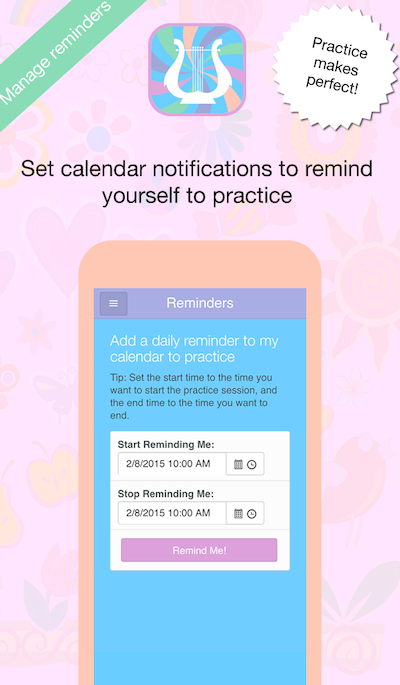
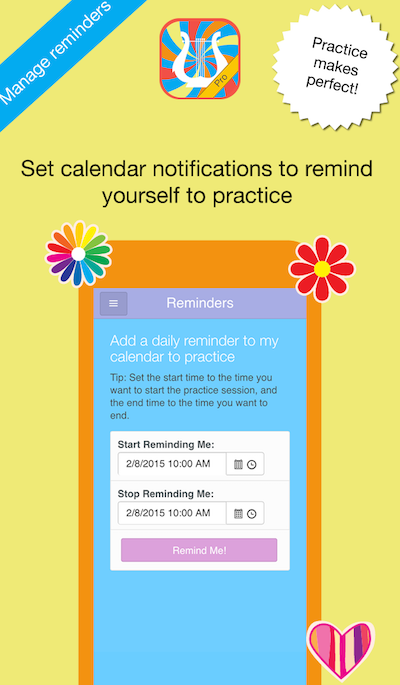
redesign

diff --git a/index.html b/index.html
@@ -79,6 +79,7 @@
                         <span class="name">Welcome!</span>
                         <hr class="music-light">
                         <span class="skills">Practice Buddy is the musical student's preferred app and the music teacher's best toolkit</span>
+                        
                     </div>
                 </div>
             </div>
@@ -88,11 +89,11 @@
     
     <div data-role="view" id="home" data-layout="default" class="welcome-scrn form-view" data-model="app.Home">
 
-    <section id="about" data-layout="default" class="green">
+    <section id="about" data-layout="default" class="orange">
         <div class="container">
             <div class="row">
                 <div class="col-lg-12 text-center">
-                    <h2>About Practice Buddy</h2>
+                    <h2>Practice Buddy has logged <span data-bind="text: getNumPractices"></span> practices so far!</h2>
                 </div>
             </div>
             <div class="row">
@@ -135,7 +136,7 @@
             </div>
     </section>
 
-    <section class="pink" id="students">
+    <section class="red" id="students">
         <div class="container">
             <div class="row">
                 <div class="col-lg-12 text-center">
@@ -167,7 +168,7 @@
             </div>
     </section>
 
-    <section class="salmon" id="teachers">
+    <section class="orange" id="teachers">
         <div class="container">
             <div class="row">
                 <div class="col-lg-12 text-center">
@@ -228,7 +229,7 @@
             
     </section>
 
-    <section class="pink" id="contact">
+    <section class="yellow" id="contact">
         <div class="container">
             <div class="row">
                 <div class="col-lg-6 col-lg-offset-3">
@@ -261,7 +262,7 @@
             </div>
     </section>
 
-    <section class="green" id="music">
+    <section class="lite-blue" id="music">
         <div class="container">
             <div class="row">
                 <div class="col-lg-12 text-center">
@@ -277,7 +278,7 @@
             
             <div class="row">
                
-               <div class="col-lg-4 blue" style="border-radius:4px">
+               <div class="col-lg-4 dark-blue" style="border-radius:4px">
 
                     <h4>Stringed Instruments</h4>
 
@@ -327,7 +328,7 @@
                 
                 <div class="col-lg-4" style="border-radius:4px">
 
-                <div class="salmon" style="border-radius:4px;padding:5px">
+                <div class="orange" style="border-radius:4px;padding:5px">
 
                     <h4>Piano</h4>
 
@@ -401,7 +402,7 @@
 
 
                   
-               <div class="col-lg-4 pink" style="border-radius:4px">
+               <div class="col-lg-4 red" style="border-radius:4px">
 
                     <h4>Banjos and Guitars</h4>
 
@@ -524,7 +525,6 @@
     <script src="scripts/js/cbpAnimatedHeader.js"></script>
 
     <script src="scripts/js/freelancer.js"></script>
-    <script src="scripts/js/wufoo.js"></script>
 
 </body>
 

diff --git a/styles/freelancer.css b/styles/freelancer.css
@@ -4,6 +4,56 @@
  * For details, see http://www.apache.org/licenses/LICENSE-2.0.
  */
 
+/*original pastel*/
+/*pink = E9D8DE
+orchid = DCA1DB
+cream = F6E4B2
+blue =  6FCEFF
+purple = A8ADE4*/
+
+/*new primary*/
+/*red: F04848;
+orange: F09018;
+yellow: F0F078;
+blue: 18A8F0;
+dark blue: 181848;
+*/
+
+/*.pink{
+    background:#DCA1DB;
+}
+.salmon{
+    background:#FFC8BA;
+}
+.green{
+    background:#93DFB8;
+}
+.blue{
+    background:#6FCEFF;
+}
+.purple{
+    background:#A8ADE4;
+}*/
+.red{
+    background:#F04848;
+}
+.orange{
+    background:#F09018;
+}
+.yellow{
+    background:#F0F078;
+}
+.lite-blue{
+    background:#18A8F0;
+}
+.dark-blue{
+    background:#181848;
+}
+.purple{
+    background:#8814CA;
+}
+
+
 body {
     overflow-x: hidden;
     color:#FFF;
@@ -23,7 +73,7 @@ a:focus,
 a:active,
 a.active {
     outline: 0;
-    color: #FFF;
+    color: #FFF !important;
 }
 
 h1,
@@ -64,7 +114,7 @@ hr.music-light {
 
 hr.music-light:after {
     color: #fff;
-    background-color: #6FCEFF;
+    background-color: #18A8F0;
 }
 
 hr.music-primary:after {
@@ -79,7 +129,7 @@ hr.music-primary:after {
 header {
     text-align: center;
     color: #fff;
-    background: #6FCEFF;
+    background: #18A8F0;
 }
 
 header .container {
@@ -163,10 +213,10 @@ header .intro-text .skills {
 .navbar-default,
 .navbar-inverse {
     border: 0;
-    background: #A8ADE4;
+    background: #181848;
 }
 .navbar-default .navbar-nav>.active>a, .navbar-default .navbar-nav>.active>a:hover, .navbar-default .navbar-nav>.active>a:focus {
-    background-color: #93DFB8;
+    background-color: #F09018;
 }
 section {
     padding: 100px 0;
@@ -191,21 +241,7 @@ section.success {
         padding-top: 75px;
     }
 }
-.pink{
-    background:#DCA1DB;
-}
-.salmon{
-    background:#FFC8BA;
-}
-.green{
-    background:#93DFB8;
-}
-.blue{
-    background:#6FCEFF;
-}
-.purple{
-    background:#A8ADE4;
-}
+
 #portfolio .portfolio-item {
     right: 0;
     margin: 0 0 15px;
@@ -356,7 +392,7 @@ footer .footer-col {
 
 footer .footer-below {
     padding: 25px 0;
-    background-color: #A8ADE4;
+    background-color: #181848;
 }
 
 .btn-social {

diff --git a/scripts/app/home.js b/scripts/app/home.js
@@ -9,13 +9,23 @@ app.Home = (function () {
 
     var homeViewModel = (function () {
 
-        var getYear = function () {
-            var currentTime = new Date();
-            return currentTime.getFullYear();
+        var getNumPractices = function () {
+            var num = 0;
+            var data = app.everlive.data('PracticeSessions');
+            data.count()
+            .then(function(data){
+                console.log(data.result)
+                return data.result;
+            },
+            function(error){
+                return 1;
+            });         
         };
 
+        
         return {
-            getYear: app.getYear
+            getYear: app.getYear,
+            getNumPractices: getNumPractices
         };
 
     }());

diff --git a/scripts/app/app.js b/scripts/app/app.js
@@ -23,6 +23,8 @@ var app = (function (win) {
         return currentTime.getFullYear();
     }());
 
+    
+
     return {
         everlive: el,
         getYear: getYear
